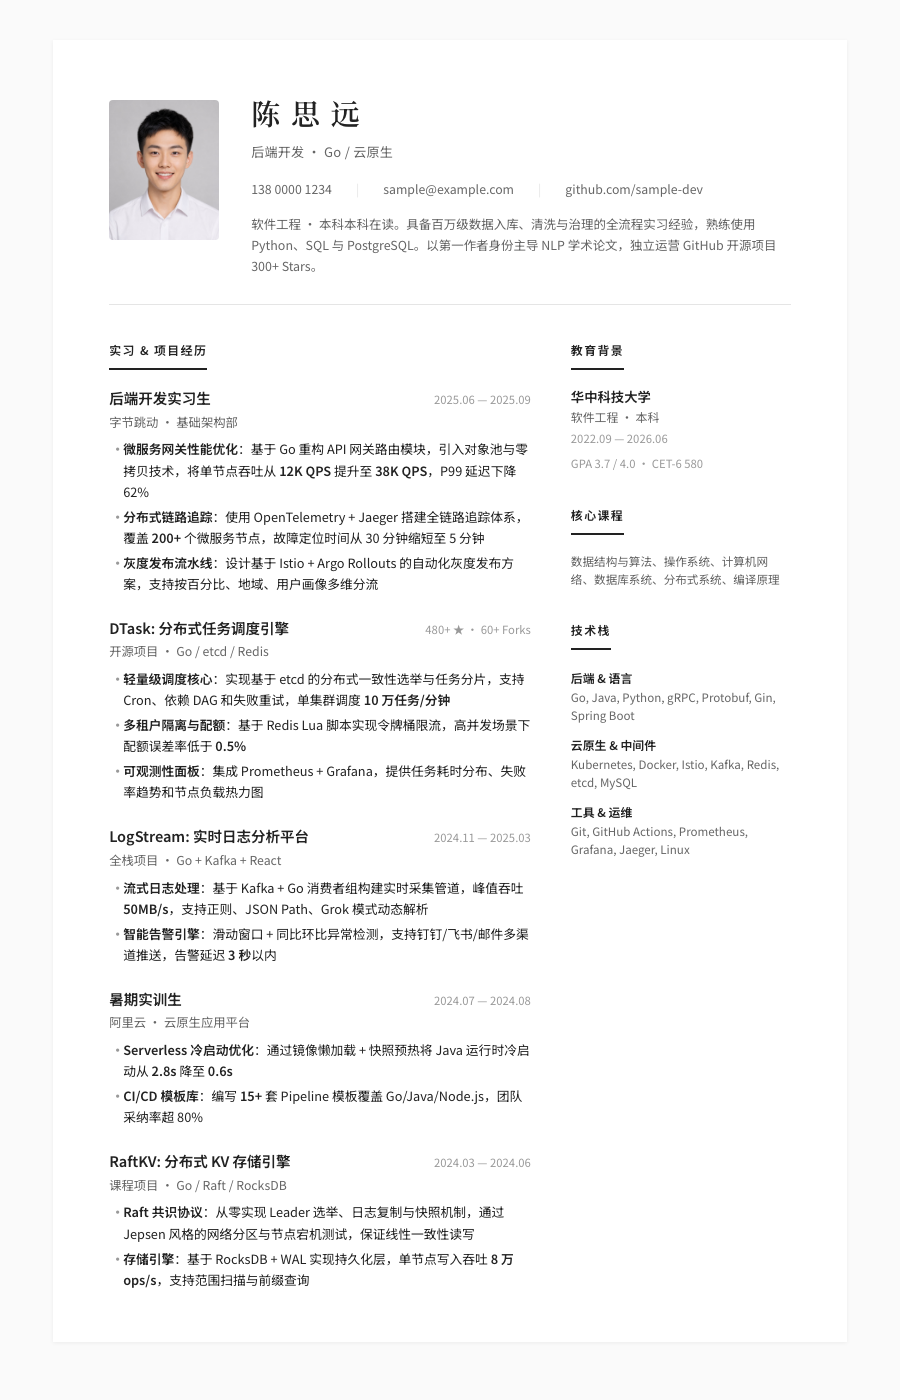
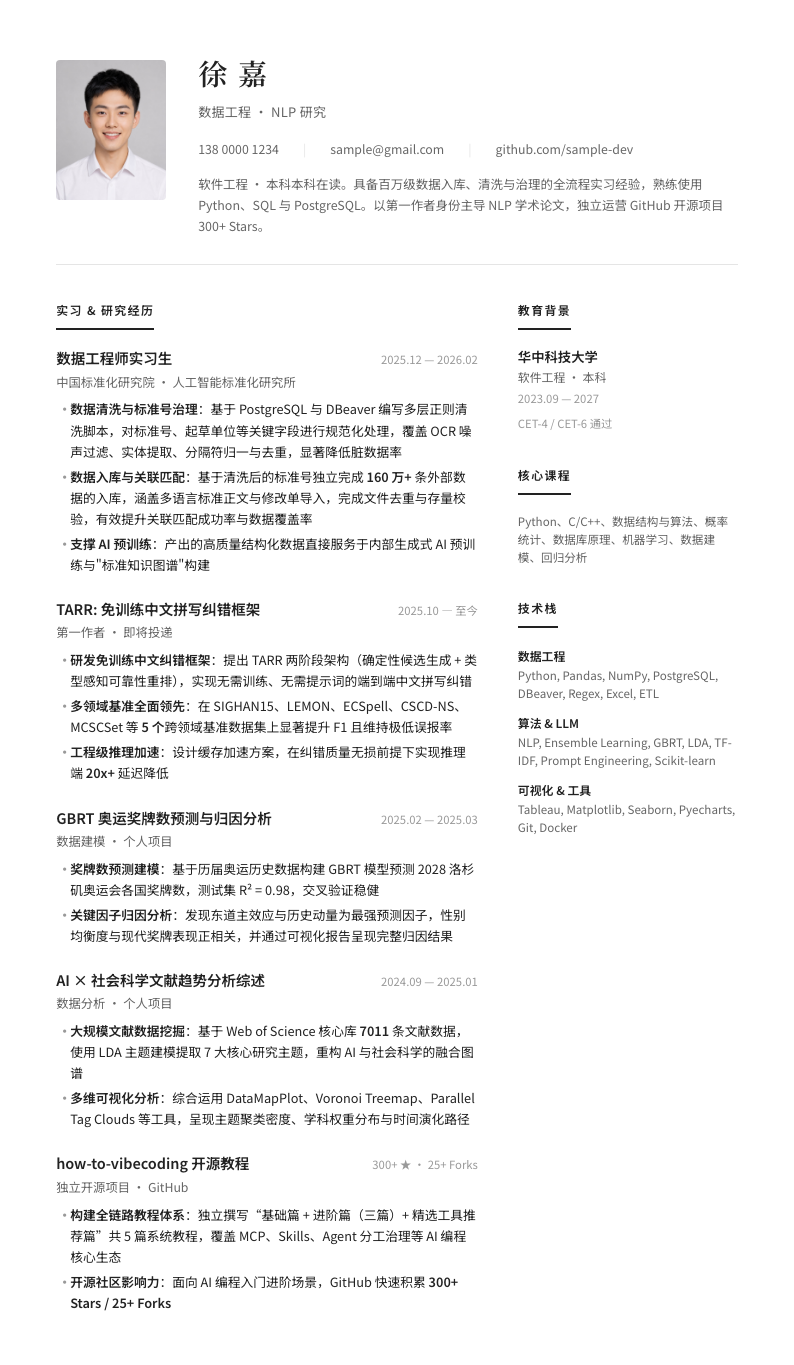
docs: enhanced sample preview with 2x retina + detailed breakout table in both ZH/EN

Changed region(s): [[0.0605, 0.2154, 0.6045, 0.9846], [0.0605, 0.0308, 0.9068, 0.2154], [0.6348, 0.2154, 0.9068, 0.6154]]

diff --git a/README.md b/README.md
@@ -77,11 +77,30 @@ resume-builder/
 └──────────────────┴───────┘
 ```
 
-## 📸 样例预览
+## 📸 样例展示
 
-[![preview](examples/single-page-preview.png)](examples/single-page.pdf)
+<p align="center">
+  <a href="examples/single-page.pdf"><strong>📥 下载完整 PDF</strong></a>
+</p>
 
-> 虚构人物"陈思远" · 后端开发方向 · 5 段经历 · Grid 两栏布局 · [📥 下载 PDF](examples/single-page.pdf)
+<p align="center">
+  <img src="examples/single-page-preview.png" alt="简历样例" width="600">
+</p>
+
+<details open>
+<summary><strong>📋 这份样例展示了什么？</strong></summary>
+
+| 区域 | 展示内容 |
+|------|----------|
+| **头部** | AI 生成形象照 + Serif 姓名 + 联系方式 + 个人综述 |
+| **左栏** | 5 段实习/项目经历，XYZ+S 子弹公式，数字指标高亮（`<span class="metric">`） |
+| **右栏** | 教育背景、核心课程、技术栈三组分类 |
+| **排版** | 纯单色 `#222/#666/#999`，`tabular-nums` 等宽数字，`text-wrap: balance` 标题 |
+| **打印** | `width: 210mm` 精确 A4 容器，Playwright 无头浏览器渲染 |
+
+</details>
+
+> 样例内容为虚构数据："陈思远" · 华中科技大学软件工程 · 字节跳动/阿里云实习 · 开源项目 DTask/LogStream/RaftKV
 
 ## 💬 使用示例
 
@@ -182,9 +201,28 @@ resume-builder/
 
 ## 📸 Sample Preview
 
-[![preview](examples/single-page-preview.png)](examples/single-page.pdf)
+<p align="center">
+  <a href="examples/single-page.pdf"><strong>📥 Download Full PDF</strong></a>
+</p>
 
-> Fictional "陈思远" · Backend Engineer · 5 entries · Grid two-column · [📥 Download PDF](examples/single-page.pdf)
+<p align="center">
+  <img src="examples/single-page-preview.png" alt="Resume sample" width="600">
+</p>
+
+<details open>
+<summary><strong>📋 What this sample demonstrates</strong></summary>
+
+| Section | Content |
+|---------|---------|
+| **Header** | AI-generated portrait + Serif name + contact row + professional summary |
+| **Left column** | 5 internship/project entries, XYZ+S bullet formula, metric highlighting (`<span class="metric">`) |
+| **Right column** | Education, core courses, tech stack (3 categorized groups) |
+| **Typography** | Pure monochrome `#222/#666/#999`, `tabular-nums` for numbers, `text-wrap: balance` on headings |
+| **Print** | `width: 210mm` precise A4 container, Playwright headless browser rendering |
+
+</details>
+
+> Fictional data: "陈思远" · Huazhong University · ByteDance/Alibaba internships · Open-source projects DTask/LogStream/RaftKV
 
 ## 💬 Usage
 
